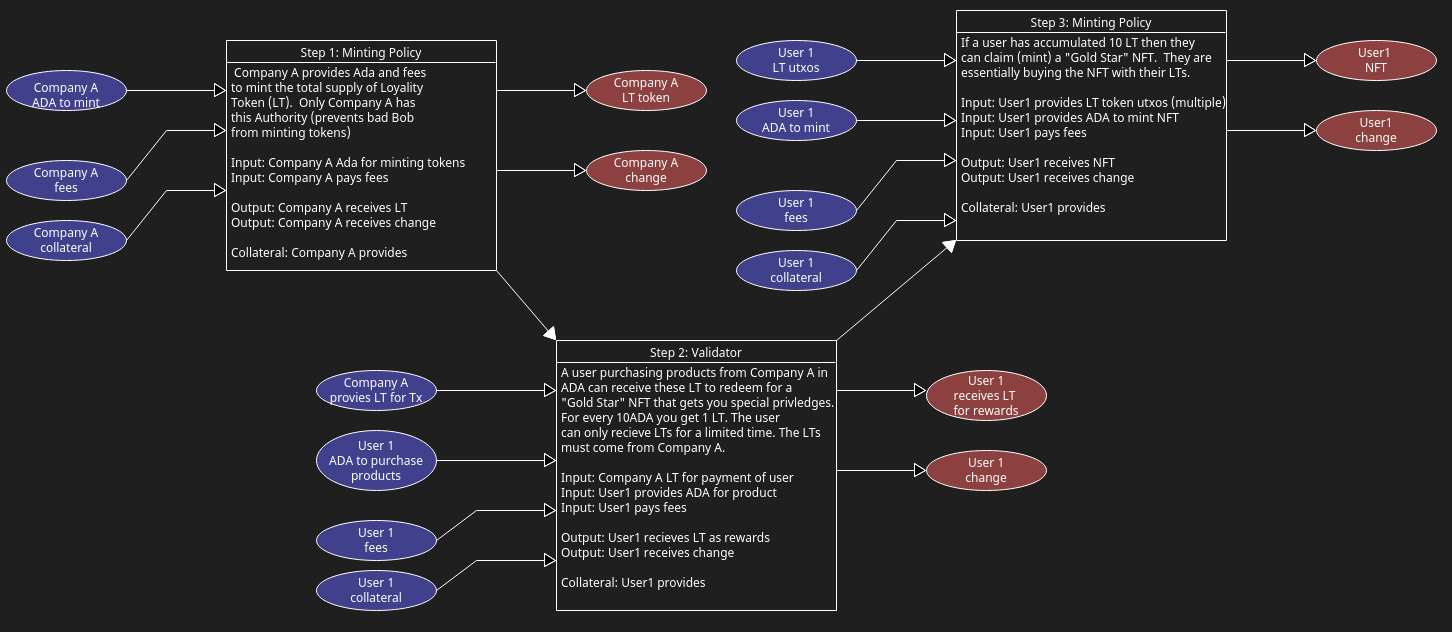
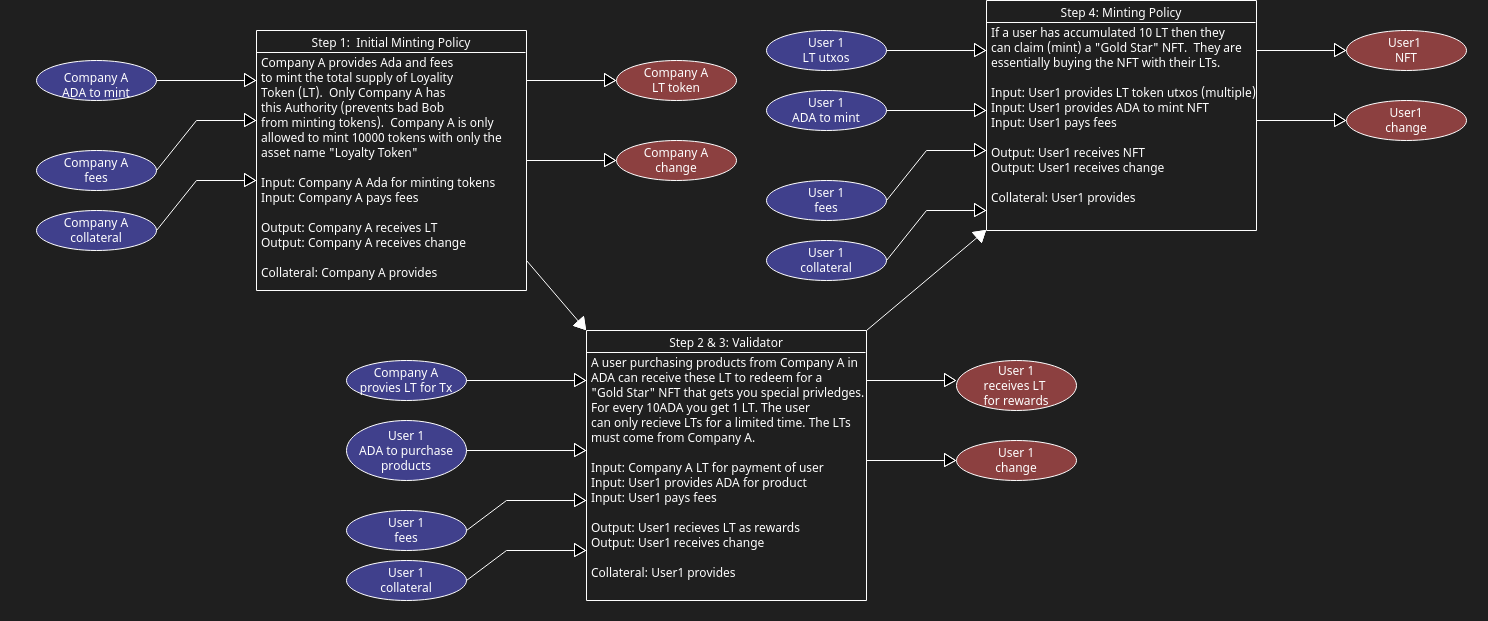
step 4 complete

diff --git a/finalproject/testnet/step4NFTclaim.ts b/finalproject/testnet/step4NFTclaim.ts
@@ -8,17 +8,21 @@ import { Blockfrost,
     toHex,
     applyParamsToScript,
     Constr,
-    fromText} from "https://deno.land/x/lucid@0.10.7/mod.ts";
-import * as cbor from "https://deno.land/x/cbor@v1.4.1/index.js";
-// import * as J from "https://deno.land/x/jsonschema/jsonschema.ts";
+    fromText} from "lucid-cardano" //"https://deno.land/x/lucid@0.10.7/mod.ts";
+import * as cbor from "lucid-cardano" //"https://deno.land/x/cbor@v1.4.1/index.js";
+import * as J from "https://deno.land/x/jsonschema/jsonschema.ts";
+
+import demo from "./compiled/claimnft.json" assert { type: "json" };
 
 
-import demo from "./eaNFT.json" assert { type: "json" };
-
+const API_KEY = "previewVUlq7WyCF2wdzZsao48qPAemzR7HCt4l";
 
 const utxoRef = new Constr(0, [
-    new Constr(0, ["405fcdd2ccb5b9437c073e2ad340b56e09030986"]),
-    BigInt(4)]);
[1 lines of base64/hex data omitted]
+    BigInt(1)]);
+
+
+const policyId : string = "0c3626175abe361b24728f3d80e2da26f21c0629cca89542c2935f37";
 
 
 interface contractJSON {
@@ -29,28 +33,31 @@ interface contractJSON {
 
 let contract: contractJSON = demo;
 
-const paramsContract = applyParamsToScript(contract.cborHex,[utxoRef,fromText("DaCoin")])
+const paramsContract = applyParamsToScript(contract.cborHex,[utxoRef,fromText("Gold Star"),fromText("Loyalty Token"),policyId]);
+
+//const paramsContract = applyParamsToScript(contract.cborHex,[fromText("Loyalty Token")]);
 
 const demo2:contractJSON = {
-    type: "PlutusV2",
+    type: "PlutusScriptV2",
     description: "The Parametrized contract",
     cborHex: paramsContract
 }   
 
 const lucid = await Lucid.new(new Blockfrost(
     "https://cardano-preview.blockfrost.io/api/v0",
-    Deno.env.get("BLOCKFROST_API_KEY"),
+    API_KEY,
   ), "Preview");
 
 async function writeJson(filePath: string, o: any) {
     await Deno.writeTextFile(filePath, JSON.stringify(o, null, 2));
 }
 
-console.log(demo);
+//console.log(demo);
 console.log(demo2);
 
-writeJson("demo.json", demo);
-writeJson("demo2.json", demo2);
+//writeJson("demo.json", demo);
+writeJson("./compiled/claimnft_refparam.json", demo2);
+
 
 
 // const privateKey = 

diff --git a/finalproject/testnet/step1InitialMint.ts b/finalproject/testnet/step1InitialMint.ts
@@ -16,18 +16,7 @@ import demo from "./compiled/initialmint.json" assert { type: "json" };
 
 
 const API_KEY = "previewVUlq7WyCF2wdzZsao48qPAemzR7HCt4l";
-
-// const utxoRef = new Constr(0, [
-//     new Constr(0, ["405fcdd2ccb5b9437c073e2ad340b56e09030986"]),
-//     BigInt(4)]);
-
-
-// const pkh = new Constr(0, [
-//     new Constr(0, ["c32b8657a48213b56cdcbbd22d373e77a76394c9a0bfd098bb72d8f1"])]);
-
-// ///********** this is what it seem like it should be !!!!!!!!!!!!!!!!!!!!!!!1 */
-// const pkh1 = new Constr(0, ["c32b8657a48213b56cdcbbd22d373e77a76394c9a0bfd098bb72d8f1"]);   
-
+  
 const pkh2: string  = "c32b8657a48213b56cdcbbd22d373e77a76394c9a0bfd098bb72d8f1";
 
 

diff --git a/README.md b/README.md
@@ -2,14 +2,16 @@
 
 ## Introduction
 
-The ability for a Company, in this case Company A, to track customer purchases on the blockchain is paramount. By implementing a system where purchases are recorded on the Cardano blockchain, Company A can ensure the integrity and transparency of its loyalty rewards program. Through this blockchain-based solution, Company A can seamlessly mint and distribute "Loyalty Tokens" (LT) to customers as a reward for their patronage, addressing step one of the project. The blockchain's ledger allows for accurate tracking of customer purchases, ensuring that customers receive the appropriate number of LT based on their spending, as outlined in step two. Furthermore, with the accumulation of LT, customers can claim (mint) a "Gold Star" Loyalty NFT, which grants them special privileges with the company, as described in step three. This Cardano-based system not only facilitates the distribution of rewards but also enables Company A to personalize customer experiences, analyze purchasing patterns, and enhance customer engagement. Overall, the integration of blockchain technology in tracking customer purchases empowers Company A to build trust, loyalty, and lasting relationships with its customers while driving operational efficiency and innovation in its loyalty rewards program.
+The ability for a Company, in this case Company A, to track customer purchases on the blockchain is paramount. By implementing a system where purchases are recorded on the Cardano blockchain, Company A can ensure the integrity and transparency of its loyalty rewards program. Through this blockchain-based solution, Company A can seamlessly mint and distribute "Loyalty Tokens" (LT) to customers as a reward for their patronage. The blockchain's ledger allows for accurate tracking of customer purchases, ensuring that customers receive the appropriate number of LT based on their spending. Furthermore, with the accumulation of LT, customers can claim (mint) a "Gold Star" Loyalty NFT, which grants them special privileges with the company. This Cardano-based system not only facilitates the distribution of rewards but also enables Company A to personalize customer experiences, analyze purchasing patterns, and enhance customer engagement. Overall, the integration of blockchain technology in tracking customer purchases empowers Company A to build trust, loyalty, and lasting relationships with its customers while driving operational efficiency and innovation in its loyalty rewards program.
 
 ## Overview
 
-As you can see from the diagram below this is 4 step protocol.
+As you can see from the diagram below this is 4 step protocol.  First, we will be minting a native token.  Second we will be locking value.  Third we will be unlocking value from a validator. And finally we will be minting a NFT.  Below will explain each step in detail.
+
+![image showing diagram](/img/diagram.jpg)
 
 #### Step 1 - Initial Token Mint 
-Company_A  is going to mint 10000 initial Loyalty Tokens (LTs).  It will require a signature from Company A along with checking to make sure they will be exactly 10000 tokens minteed with the correct asset name.
+Company_A  is going to mint 10000 initial Loyalty Tokens (LTs).  It will require a signature from Company A along with checking to make sure they will be exactly 10000 tokens minteed with the correct asset name (see initialminter.ak in the project).
 
 ![image showing diagram](/img//step1/diagram.jpg)
 
@@ -22,12 +24,15 @@ Below you can see the cli script that executed the minting policy.  Notice line 
 
 ![image showing diagram](/img//step1/cli.jpg)
 
+<span style="color:red;"> As a note this minting policy had additional parameters.  The Company verification key hash and the token asset name were parameterized in the minting policy. You can see step1InitialMint.ts in the project to see how I parameterized these to be used in the actual minting policy. </span>
 
 #### Step 2 - Validator Value Lock
 
 A user (in this case we'll them User 1) will purchase something in Ada from Company A and submit this value to the validator address.  Comany_A will submit the corresponding number of Loyalty Tokens for the amount of Ada received.  In this case the user submitted a little over 100 Ada and recieved some change the Company A submitted 10 tokens.    
 
-In addition to the value I had to submit the datum.  The datum I am using contained 5 fields: both Company A and User1 PKH, the asset name and policy id of the LT, and the deadline in which this value must be unlocked by.  Below is the code of the datum.  Below is the actual values of the .json file I submitted that has spaces for readability.  The actual file is 1 line.  
+![image showing diagram](/img//step2/diagram.jpg)
+
+In addition to the value I had to submit the datum.  The datum I am using contained 5 fields: both Company A and User1 verification key has, the asset name and policy id of the LT, and the deadline in which this value must be unlocked by.  Below is the code of the datum.  Below the code in the commented section is the actual values of the .json file I submitted that has spaces for readability.  The actual file is 1 line.  
 
 ![image showing diagram](/img//step2/datum.jpg)
 
@@ -37,7 +42,7 @@ The below cli script was used to submit the previously described data.
 
 
 #### Step 3 - Validator Value Unlock
-User1 can now unlock the value.  The validator will check if transaction has not passed the deadline, that both User1 and Company A signs the transaction and that Company A will be providing 1 LT for every 10 ADA the user spends.
+User1 can now unlock the value.  The validator will check if transaction has not passed the deadline, that both User1 and Company A signs the transaction and that Company A will be providing 1 LT for every 10 ADA the user spends (see loyalityvalidator.ak in project).
 
 ![image showing diagram](/img//step3/validator.jpg)
 
@@ -52,9 +57,43 @@ We can see User1 wallet now is in possesion of 10 LTs
 
 
 #### Step 4 - Claim NFT 
-Once a user as accrued 10 or more LTs they can claim a NFT.  This minting policy will check to make sure on only 1 will be minted with the correct asset name, that is is using a valid utxo and that they do indeed have 10 or more LTs. 
+Once a user as accrued 10 or more LTs they can claim a "Gold Star" NFT.  This minting policy will check to make sure on only 1 will be minted with the correct asset name, that is is using a valid utxo that can only be used once and that they do indeed have 10 or more LTs (see claimnft.ak in project).
 
-![image showing diagram](/img/diagram.jpg)
+![image showing diagram](/img//step4/diagram.jpg)
+
+Below is the minting policy that was used
+
+![image showing diagram](/img//step4/mintingpolicy.jpg)
+
+I submitted the previous utxo from User1 that contained the 10 LT tokens.  I also included another utxo from User1 to provide enough Ada to mint the NFT.  Here is the cli script used
+
+ ![image showing diagram](/img//step4/cli.jpg)
+
+The final result is the NFT is in the User1 wallet
+
+ ![image showing diagram](/img//step4/result.jpg)
+
+
+<span style="color:red;"> As a note this minting policy had additional parameters as well.  The utxoRef, NFT name, Loyalty token policy id and asset name were all parameterized in this policy.  See step4NFTClaim.ts in the project for more details. </span>
+
+## Using the Project
+
+#### Compile
+
+You can compile the code by navigating to the main directory of the project and use the **aiken check** command.  You will also be able to see all the tests that were passed in order to contruct a working project.
+
+
+![image showing diagram](/img//project/compile.jpg)
+
+You can do an optional **aiken build** to recompile the blueprint although that would be unnecesaary since all the compile files are in finalproject/testnet/compiled.
+
+
+#### Execute Scripts
+You can execute the shell scripts to reproduce the results.  These are all described with descriptive wording for each step in finalproject/testnet/shellscripts.  You will have to change all the utxos in teh scripts as ones currently provided have been consumed.  
+
+
+
+
 
 
 
